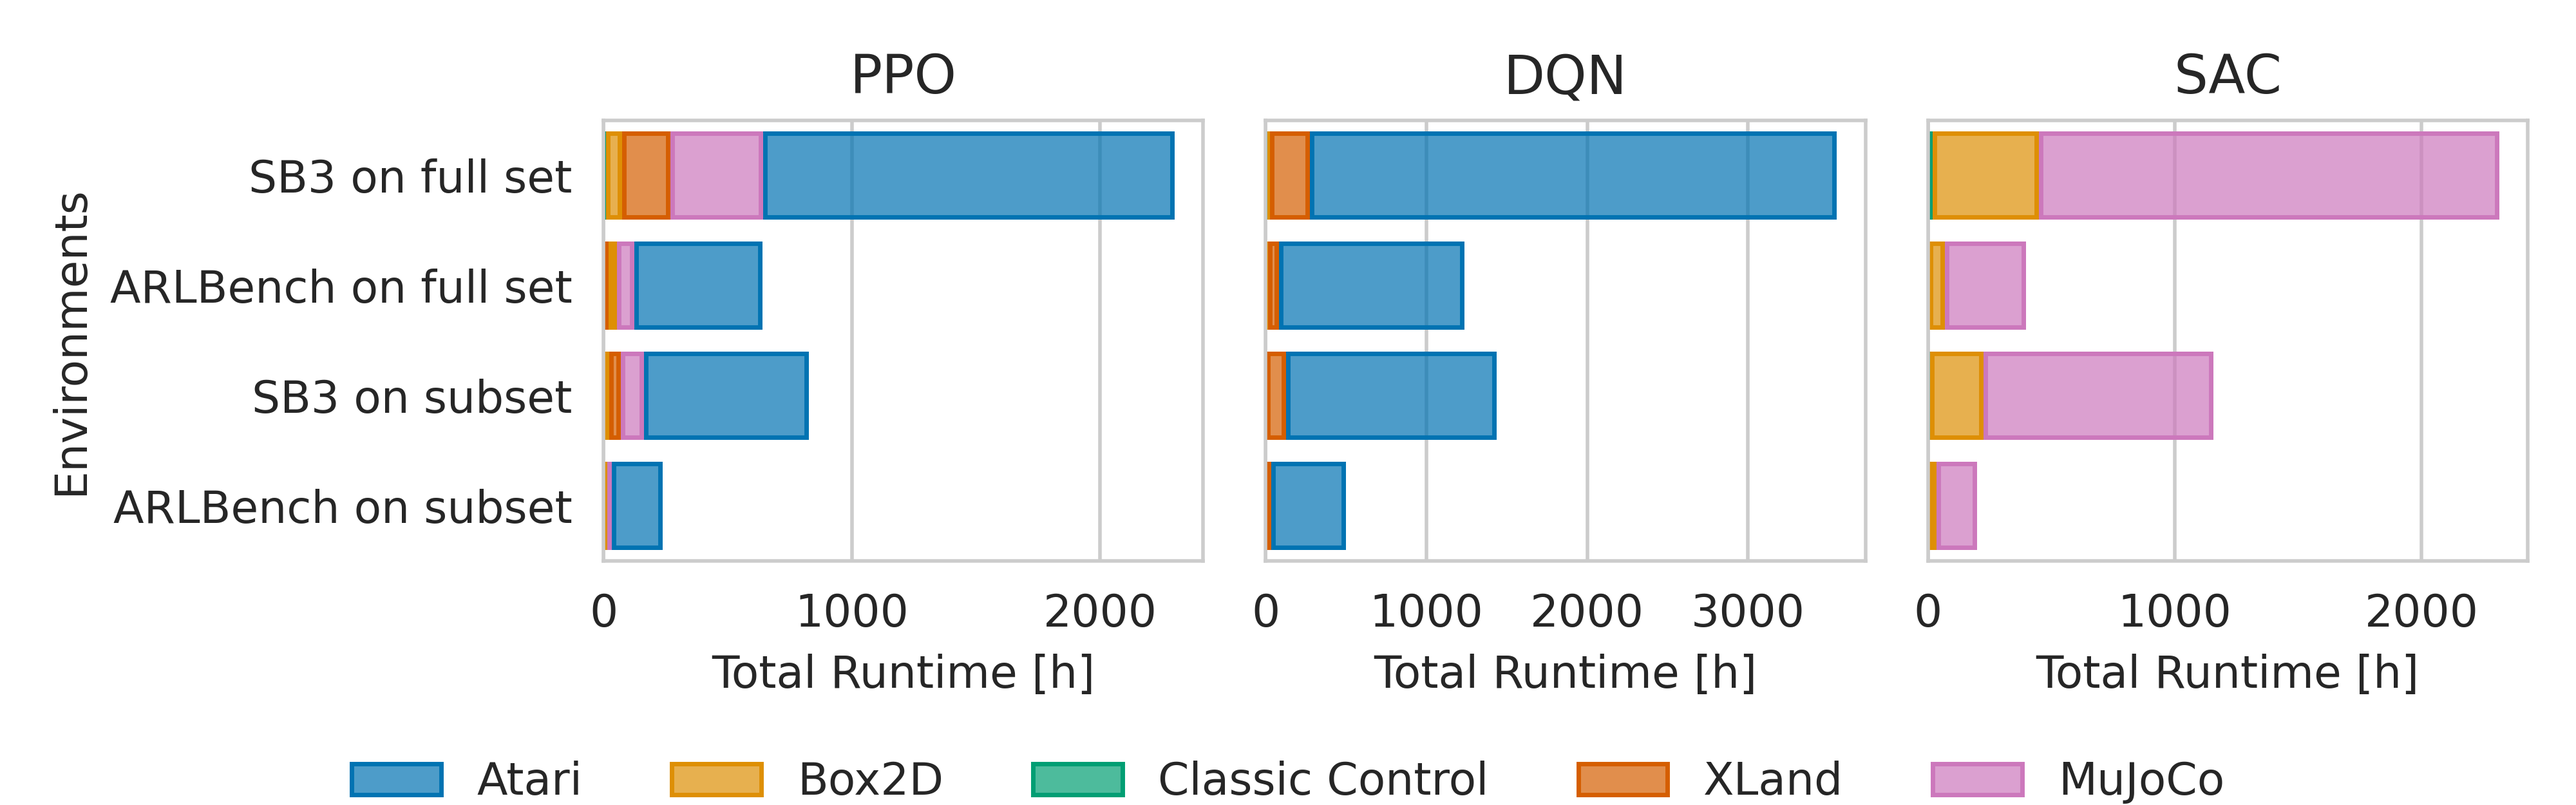
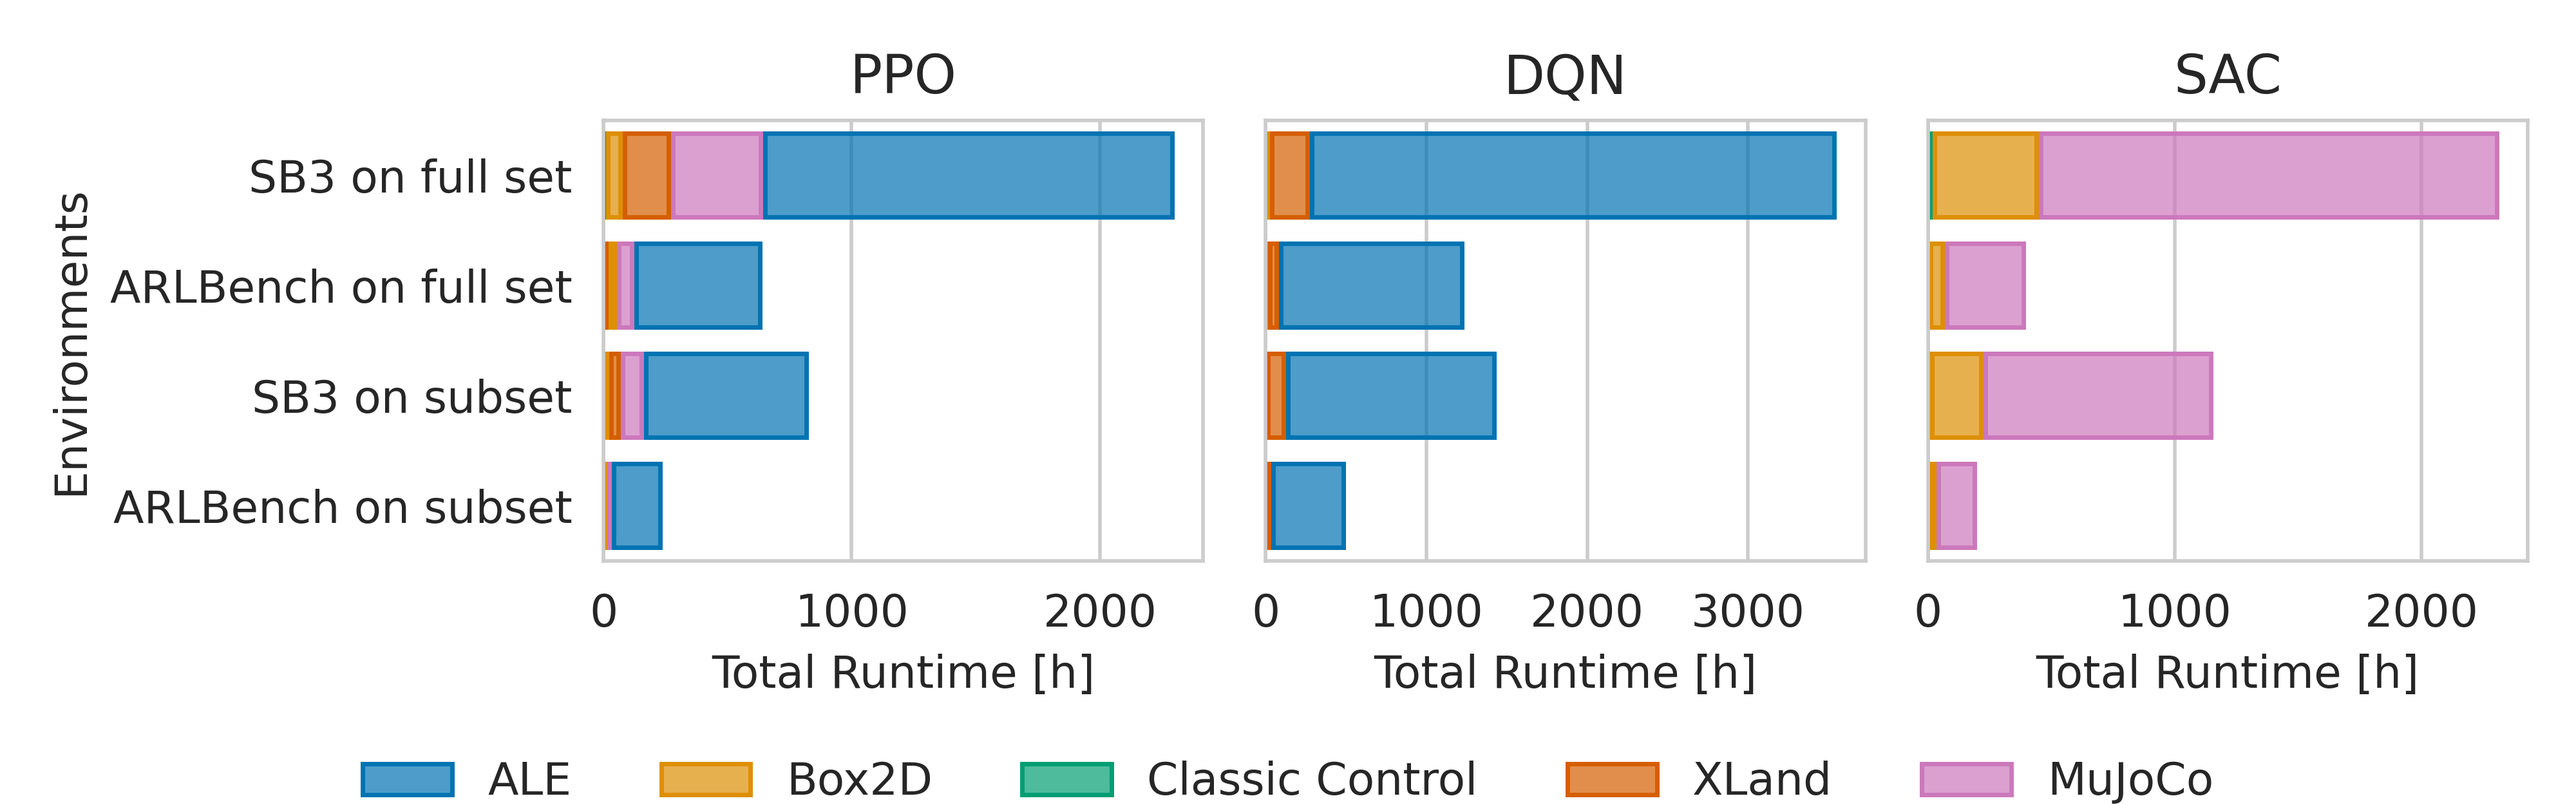
added runtime comparison plots per category

Changed region(s): [[0.25, 0.936, 0.75, 0.9984], [0.7812, 0.936, 0.875, 0.9984], [0.125, 0.936, 0.2188, 0.9984]]

diff --git a/runtime_comparisons/plot_runtime_comparisons.py b/runtime_comparisons/plot_runtime_comparisons.py
@@ -27,12 +27,12 @@ N_OPT_RUNS = 4 * 3 * 32 * 4     # 4 optimizers * 3 optimizer seeds * 32 * 3 RL s
 
 ENV_CATEGORIES = {
     "ppo": [
-        "Atari", "Atari", "Atari", "Atari", "Atari", "Box2D", "Box2D", "Box2D", "MuJoCo", "MuJoCo", "MuJoCo", "MuJoCo",
+        "ALE", "ALE", "ALE", "ALE", "ALE", "Box2D", "Box2D", "Box2D", "MuJoCo", "MuJoCo", "MuJoCo", "MuJoCo",
         "Classic Control", "Classic Control", "Classic Control", "Classic Control", "Classic Control",
         "XLand", "XLand", "XLand", "XLand"
         ],
     "dqn": [
-        "Atari", "Atari", "Atari", "Atari", "Atari", "Box2D", "Classic Control", "Classic Control", "Classic Control", 
+        "ALE", "ALE", "ALE", "ALE", "ALE", "Box2D", "Classic Control", "Classic Control", "Classic Control", 
         "XLand", "XLand", "XLand", "XLand"
     ],
     "sac": [
@@ -42,8 +42,8 @@ ENV_CATEGORIES = {
 }
 
 SUBSET_CATEGORIES = {
-    "ppo": ["Box2D", "MuJoCo", "Atari", "Atari", "XLand"],
-    "dqn": ["Classic Control", "XLand", "Atari", "Atari", "XLand"],
+    "ppo": ["Box2D", "MuJoCo", "ALE", "ALE", "XLand"],
+    "dqn": ["Classic Control", "XLand", "ALE", "ALE", "XLand"],
     "sac": ["Box2D", "MuJoCo", "MuJoCo", "Classic Control"],
 }
 
@@ -54,7 +54,7 @@ CATEGORY = {
     "LunarLander-v2": "Box2D",
     "LunarLanderContinuous-v2": "Box2D",
     "Pendulum-v1": "Classic Control",
-    "Pong-v5": "Atari",
+    "Pong-v5": "ALE",
     "MiniGrid-DoorKey-5x5": "XLand",
 }
 
@@ -198,13 +198,13 @@ def plot_runtime_comparisons():
     # Set seaborn style
     sns.set_style("whitegrid")
 
-    # Plot
+    # Plot combined plot
     fig, axes = plt.subplots(1, 3, figsize=(8, 2.5))
 
     fig.subplots_adjust(top=0.85)
 
     set_order = ["SB3 on full set", "ARLBench on full set", "SB3 on subset", "ARLBench on subset"]
-    hue_order = ["Atari", "Box2D", "Classic Control", "XLand", "MuJoCo"]
+    hue_order = ["ALE", "Box2D", "Classic Control", "XLand", "MuJoCo"]
 
     all_combinations = pd.MultiIndex.from_product([all_runtimes["algorithm"].unique(), all_runtimes["set"].unique(), hue_order], names=["algorithm", "set", "category"])
     all_runtimes = all_runtimes.set_index(["algorithm", "set", "category"]).reindex(all_combinations).reset_index()
@@ -255,6 +255,60 @@ def plot_runtime_comparisons():
     plt.tight_layout(rect=(0, 0.07, 1, 1))
     plt.savefig("plots/runtime_experiments/set_comparison.png", dpi=500)
     plt.close()
+
+    # Plot seprate plots per env category
+    for i, category in enumerate(np.unique(ENV_CATEGORIES["ppo"])):
+        print(category)
+        fig, axes = plt.subplots(1, 3, figsize=(8, 2.5))
+
+        fig.subplots_adjust(top=0.85)
+
+        category_runtimes = all_runtimes[all_runtimes["category"] == category]
+        
+        for i, algorithm in enumerate(env_categories.keys()):
+            runtime_data = category_runtimes[category_runtimes["algorithm"] == algorithm]
+            print(f"### {algorithm.upper()} ###")
+            alg_rt = runtime_data
+            alg_rt["runtime"] = alg_rt["runtime"] / (32 * 10)
+            print(alg_rt)
+
+            if (runtime_data["runtime"] == 0.).all():
+                axes[i].set_visible(False)
+                continue
+
+            plot = (
+                so.Plot(
+                    runtime_data,
+                    x="runtime",
+                    y="set",
+                    color="category",
+                ).add(
+                    so.Bar(),
+                    so.Agg("sum"),
+                    so.Norm(func="sum", by=["x"]),
+                    so.Stack()
+                ).scale(
+                    color="colorblind",
+                    y=so.Nominal(order=set_order),
+                )
+            )
+            plot.on(axes[i]).show()
+
+            axes[i].set_title(algorithm.upper())
+            axes[i].set_xlabel("Total Runtime [h]")
+            if i == 0:
+                axes[i].set_ylabel("Environments")
+            else:
+                axes[i].set_ylabel("")
+                axes[i].set_yticklabels([])
+
+        for l in fig.legends:
+            l.set_visible(False)
+        legend = fig.legends[0]
+        fig.legend(legend.legend_handles, [t.get_text() for t in legend.texts], loc="upper center", bbox_to_anchor=(0.5, 0.105), ncol=5, fancybox=False, shadow=False, frameon=False)
+        plt.tight_layout(rect=(0, 0.07, 1, 1))
+        plt.savefig(f"plots/runtime_experiments/set_comparison_{category}.png", dpi=500)
+        plt.close()
     
 
 def compute_total_runtime():

diff --git a/subset_validation/plot_optimizers_over_time.py b/subset_validation/plot_optimizers_over_time.py
@@ -94,14 +94,14 @@ HUE_ORDER = ["RS", "SMAC", "SMAC + HB", "PBT"]
 
 ENV_CATEGORIES = {
     "ppo": {
-        "Atari": ["BattleZone-v5", "DoubleDunk-v5", "NameThisGame-v5", "Phoenix-v5", "QBert-v5"],
+        "ALE": ["BattleZone-v5", "DoubleDunk-v5", "NameThisGame-v5", "Phoenix-v5", "QBert-v5"],
         "Box2D": ["LunarLander-v2", "LunarLanderContinuous-v2"],
         "Classic Control": ["Acrobot-v1", "CartPole-v1", "MountainCar-v0", "MountainCarContinuous-v0", "Pendulum-v1"],
         "XLand": ["MiniGrid-DoorKey-5x5", "MiniGrid-EmptyRandom-5x5", "MiniGrid-FourRooms", "MiniGrid-Unlock"],
         "Brax": ["ant", "halfcheetah", "hopper", "humanoid"]
     },
     "dqn": {
-        "Atari": ["BattleZone-v5", "DoubleDunk-v5", "NameThisGame-v5", "Phoenix-v5", "QBert-v5"],
+        "ALE": ["BattleZone-v5", "DoubleDunk-v5", "NameThisGame-v5", "Phoenix-v5", "QBert-v5"],
         "Box2D": ["LunarLander-v2"],
         "Classic Control": ["Acrobot-v1", "CartPole-v1", "MountainCar-v0"],
         "XLand": ["MiniGrid-DoorKey-5x5", "MiniGrid-EmptyRandom-5x5", "MiniGrid-FourRooms", "MiniGrid-Unlock"],
